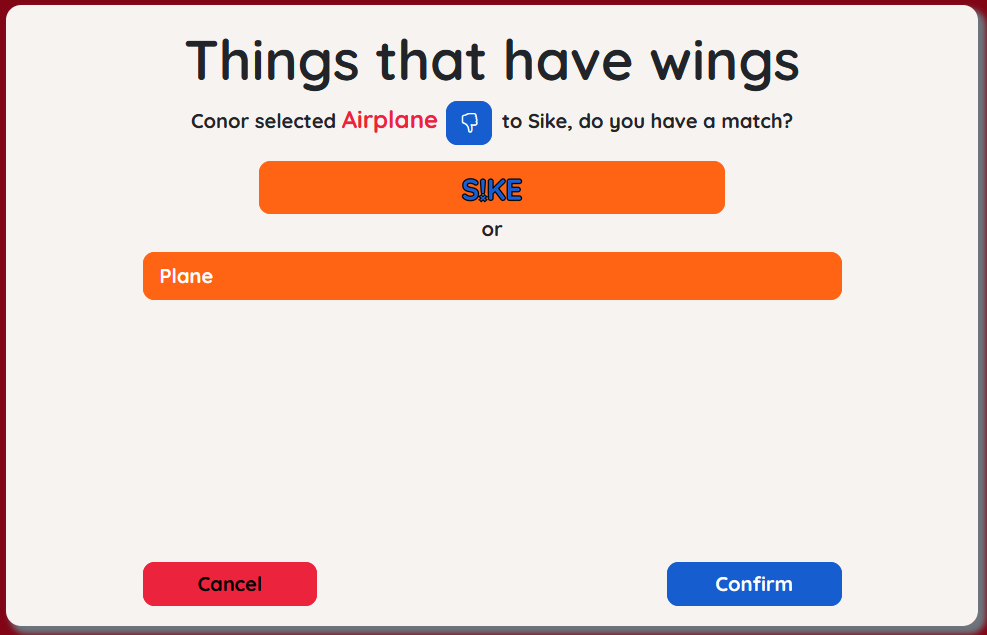
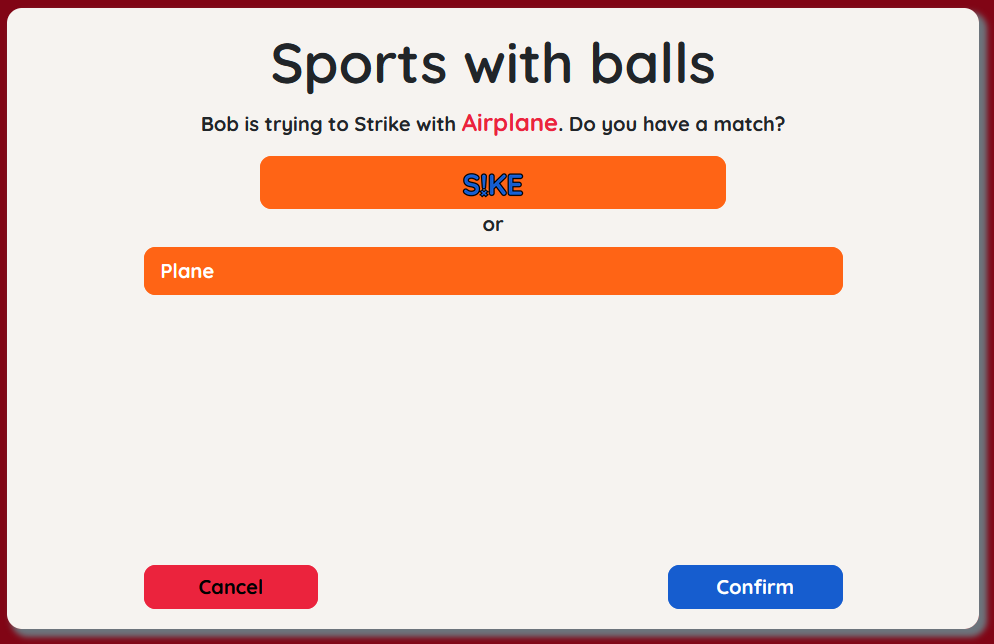
* update about and how-to-play

Changed region(s): [[0.1216, 0.0598, 0.8511, 0.4787], [0.0, 0.0, 1.0, 1.0]]

diff --git a/client/src/locales/en.js b/client/src/locales/en.js
@@ -54,7 +54,7 @@ export default {
     /*** END GAME STRINGS ***/
     playerScores: 'Player Scores',
     toLobby: 'Back to Lobby',
-    activeMatchingMessage: '{player} selected {response} to {type}, do you have a match?',
+    activeMatchingMessage: '{player} is trying to {type} with {response}. Do you have a match?',
     passiveDisputeMessage: 'Your friends are deciding if {response} fits the category',
     activeDisputeMessage: 'Does {response} fit the category?',
     skipPrompt: 'Vote Skip',
@@ -67,57 +67,43 @@ export default {
         {
             key: 'overview',
             header: 'Overview',
-            body: 'Strike or Sike is a fun simple party game suitable for players and groups of all sizes ages. Players are rewarded for being creative and thinking outside the box... and inside the box... and knowing what\'s in and out of the box.',
+            body: 'Strike or Sike is a fun simple party game suitable for groups of all sizes and players of all ages. Players earn points by being creative and thinking outside the box... and inside the box... and knowing what\'s in and out of the box!',
             children: []
         },
-        // {
-        //     header: 'Setup',
-        //     body: 'Lorem ipsum dolor sit amet, consectetur adipiscing elit, sed do eiusmod tempor incididunt ut labore et dolore magna aliqua. Aliquam purus sit amet luctus venenatis lectus magna fringilla. Sit amet cursus sit amet. Egestas purus viverra accumsan in nisl nisi scelerisque eu. Dolor magna eget est lorem ipsum dolor sit amet.',
-        //     children: [
-        //         {
-        //             header: 'Create game',
-        //             body: 'Lorem ipsum dolor sit amet, consectetur adipiscing elit, sed do eiusmod tempor incididunt ut labore et dolore magna aliqua. Aliquam purus sit amet luctus venenatis lectus magna fringilla. Sit amet cursus sit amet. Egestas purus viverra accumsan in nisl nisi scelerisque eu. Dolor magna eget est lorem ipsum dolor sit amet.'
-        //         },
-        //         {
-        //             header: 'Join game',
-        //             body: 'Lorem ipsum dolor sit amet, consectetur adipiscing elit, sed do eiusmod tempor incididunt ut labore et dolore magna aliqua. Aliquam purus sit amet luctus venenatis lectus magna fringilla. Sit amet cursus sit amet. Egestas purus viverra accumsan in nisl nisi scelerisque eu. Dolor magna eget est lorem ipsum dolor sit amet.'
-        //         }
-        //     ]
-        // },
         {
             key: 'prompt',
             header: 'Prompt',
-            body: 'At the start of each round, each player is given the same prompt. For the duration of the timer, players can respond to the with whatever they feel is fits the category. Clever answers are allowed as long as they fit the prompt. Try to respond with an equal number of uncommon and common answers. In this example round, the prompt is "Ice cream flavours". Some possible responses are Vanilla, Chocolate, and Garlic.',
+            body: 'At the start of each round, every player is given the same prompt. For the duration of the timer, players can respond to the prompt with whatever they feel fits the category. Clever answers are allowed and encouraged! Try to respond with an equal number of uncommon and common answers. In this example round, the prompt is "Languages". Some possible responses are English, French, and Javascript (a programming language).',
             alt: 'Example of responding to prompts',
             children: [],
         },
         {
             key: 'selection',
             header: 'Selection',
-            body: 'After the timer runs out, each player will get a chance to select! The overlord computer will role a dice and pick whether either strike, sike or choice.',
+            body: 'After the timer runs out, every player will get a chance to select. The overlord computer will roll a die and pick whether the Selector will Strike, Sike or get their Choice. The Selector will then choose a response based on what was rolled.',
             children: [
                 {
                     key: 'strike',
                     header: 'Strike',
-                    body: 'The selector will pick a response from their list that they think all other players also wrote down. A good choice for "Ice cream flavours" might be vanilla, because it is a very common flavour. The somethingers score for this round is the number of players who also had vanilla on their list.\n',
+                    body: 'The Selector will pick a response from their list that they think all other players also wrote down. A good choice for "Languages" might be English, because it is the language you are currently using. The Selector’s score for this round is the number of players who also had English on their list.',
                     alt: 'Example of selecting a Strike',
                 },
                 {
                     key: 'sike',
                     header: 'Sike',
-                    body: 'The selector will pick a response from their list that they think no other players wrote down. A good choice for "Ice cream flavours" might be garlic, because it is an ice cream flavour that exists, but not a top flavour. The somethingers score for this round is the number of players who did not have garlic on their list.'
+                    body: 'The Selector will pick a response from their list that they think no other players wrote down. A good choice for "Languages" might be Javascript, because it is a programming language, not a natural language. The Selector’s score for this round is the number of players who did not have Javascript on their list.'
                 },
                 {
                     key: 'choice',
                     header: 'Choice',
-                    body: 'The selector gets to choose whether they would like to Strike or Sike. After choosing, the player picks a response as if they had rolled Strike or Sike.'
+                    body: 'The Selector gets to choose whether they would like to Strike or Sike! After choosing, the Selector proceeds to pick a response as if they had rolled Strike or Sike.'
                 }
             ]
         },
         {
             key: 'matching',
             header: 'Matching',
-            body: 'Most of the time matching is done automatically, but sometimes synonyms exist, and it is up to the players to decide whether or not 2 responses are the same. For example, airplane and plane are probably the same. When prompted, either match the selected word to a corresponding synonym in your list, or hit the Sike button because you don\'t have one.',
+            body: 'Most of the time matching is done automatically, but sometimes synonyms exist (or the word was misspelled). It is up to the players to decide whether or not 2 responses are the same. For example, Airplane and Plane would likely be considered the same response most of the time. When prompted, either match the selected word to a corresponding synonym in your list, or hit the Sike button if you don\'t have one.',
             children: []
         },
         {
@@ -139,13 +125,13 @@ export default {
                 {
                     key: 'dispute',
                     header: 'Dispute Sike',
-                    body: 'By default, players can vote that a selected Sike does not adequately fit the prompt. If you trust your friends and don\'t want to cause fighting this can be disabled.',
+                    body: 'Gives players the option to dispute whether a selected Sike fits the prompt. By default, players can vote that a selected Sike does not adequately fit the prompt. If you trust your friends and don\'t want to cause fighting, this can be disabled.',
                     children: []
                 },
                 {
                     key: 'retries',
                     header: 'Retries',
-                    body: 'By default, after a selectors Sike has successfully been disputed, the selector\'s turn is over and they get 0 points. If you believe this punishment is too harsh, you can let them retry, and select a Sike that actually fits the category. I\'m sure it was just a misunderstanding.',
+                    body: 'By default, after a Selector’s Sike has successfully been disputed, the Selector\'s turn is over and they get 0 points. If you believe this punishment is too harsh, you can let them retry, and select a Sike that actually fits the category. I\'m sure it was just a misunderstanding…',
                     children: ''
                 }
             ]
@@ -157,13 +143,11 @@ export default {
     about: {
         link: 'About',
         header: 'About',
-        project: 'Strike or Sike has been a passion project of mine. Throughout the pandemic game room sites like this one kept my friends and family entertained. Since I couldn\'t find one of my favourite games "Hit or Miss" anywhere, I decided to make it myself.',
-        openSource: 'This project is completely open source and can be found {github}. If you want to contribute and add a feature that is missing, fix a bug, support a new language, or add more prompt packs, feel free to submit a pull request. If you see a bug or request a feature you can submit an {issues}.',
-        me: 'This project was designed by Conor Murphy, you can learn more about me and my projects {profile}. A big thank you to Jen Gu, who designed all of the art assets and helped with UI/UX design.',
+        project: 'Strike or Sike has been a passion project of mine. Throughout the pandemic, game room sites, like this one, kept my friends and family entertained. Since I couldn\'t find one of my favourite games "Hit or Miss" anywhere, I decided to make it myself.',
+        openSource: 'This project is completely open source and can be found on {github}. If you want to contribute –  add a new feature, fix a bug, support a new language, or add more prompt packs –  feel free to submit a pull request. If you see a bug or want a feature (but aren’t as technically inclined) you can submit an {issues}.',
+        me: 'This project was designed by Conor Murphy. You can learn more about me and my projects {profile}. A big thank you to Jen Gu, who designed all of the art assets and helped with UI/UX design.',
         github: 'github',
         issues: 'issue',
         profile: 'here',
     }
-
-
 }

diff --git a/client/src/views/HowToPlay.vue b/client/src/views/HowToPlay.vue
@@ -15,7 +15,8 @@
 
 <script>
 import Prompt from '@/assets/images/howToPlay/prompt.png';
-import Strike from '@/assets/images/howToPlay/strikeSelect.png';
+import Strike from '@/assets/images/howToPlay/strike.png';
+import Sike from '@/assets/images/howToPlay/sike.png';
 import Choice from '@/assets/images/howToPlay/choice.png';
 import Matching from '@/assets/images/howToPlay/matching.png';
 
@@ -25,6 +26,7 @@ export default {
       imgs: {
         prompt: Prompt,
         strike: Strike,
+        sike: Sike,
         choice: Choice,
         matching: Matching,
       }
